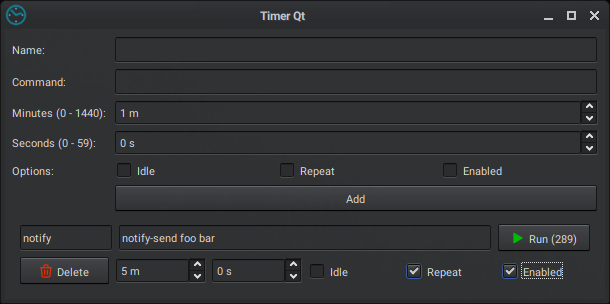
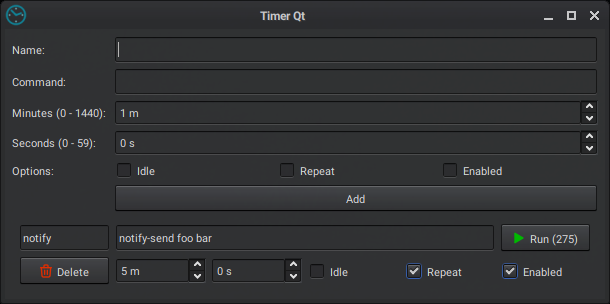
use grid instead of boxes

Changed region(s): [[0.7787, 0.7401, 0.9656, 0.7993], [0.1557, 0.7401, 0.3738, 0.7993]]

diff --git a/timerwidget.cpp b/timerwidget.cpp
@@ -7,11 +7,6 @@ TimerWidget::TimerWidget(QString id, QString name, QString cmd, int min, int sec
     timer->setInterval(1000);
 
     timerId = id;
-    auto vbox = new QVBoxLayout(this);
-    auto row1 = new QHBoxLayout();
-    auto row2 = new QHBoxLayout();
-    vbox->addLayout(row1);
-    vbox->addLayout(row2);
     nameEdit = new QLineEdit(name);
     cmdEdit = new QLineEdit(cmd);
     minSpin = new QSpinBox();
@@ -33,16 +28,22 @@ TimerWidget::TimerWidget(QString id, QString name, QString cmd, int min, int sec
     runBtn = new QPushButton(QIcon(":/run"), "Run (0)");
     delBtn = new QPushButton(QIcon(":/delete"), "Delete");
 
-    row1->addWidget(nameEdit, 1);
-    row1->addWidget(cmdEdit, 4);
-    row1->addWidget(runBtn, 1);
+    auto grid = new QGridLayout();
+    grid->addWidget(nameEdit, 0, 0, 1, 1);
+    grid->addWidget(cmdEdit, 0, 1, 1, 4);
+    grid->addWidget(runBtn, 0, 5, 1, 1);
 
-    row2->addWidget(delBtn, 1);
-    row2->addWidget(minSpin, 1);
-    row2->addWidget(secSpin, 1);
-    row2->addWidget(idleCheck,1);
-    row2->addWidget(repeatCheck, 1);
-    row2->addWidget(enabledCheck, 1);
+    grid->addWidget(delBtn, 1, 0, 1, 1);
+    grid->addWidget(minSpin, 1, 1, 1, 1);
+    grid->addWidget(secSpin, 1, 2, 1, 1);
+    grid->addWidget(idleCheck, 1, 3, 1, 1);
+    grid->addWidget(repeatCheck, 1, 4, 1, 1);
+    grid->addWidget(enabledCheck, 1, 5, 1, 1);
+
+    for (int i = 0; i < 6 ; ++i ) {
+        grid->setColumnStretch(i, 1);
+    }
+    setLayout(grid);
 
     if(enabled)
         start();

diff --git a/timerwidget.h b/timerwidget.h
@@ -1,7 +1,7 @@
 #ifndef TIMERWIDGET_H
 #define TIMERWIDGET_H
 
-#include <QHBoxLayout>
+#include <QGridLayout>
 #include <QLabel>
 #include <QLineEdit>
 #include <QPushButton>
